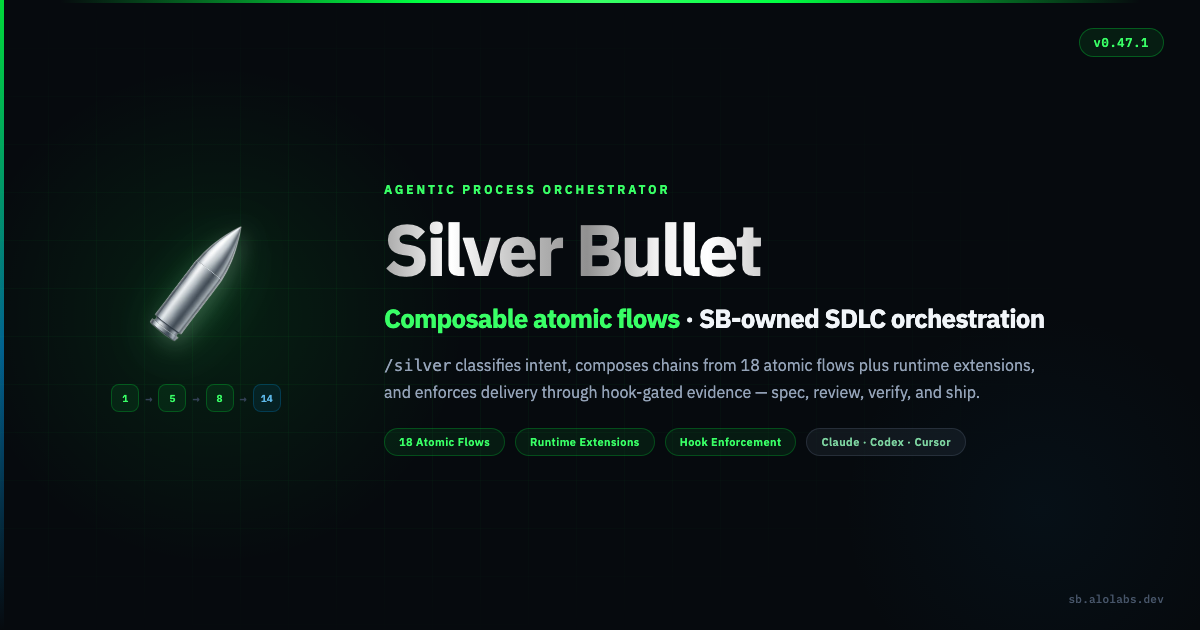
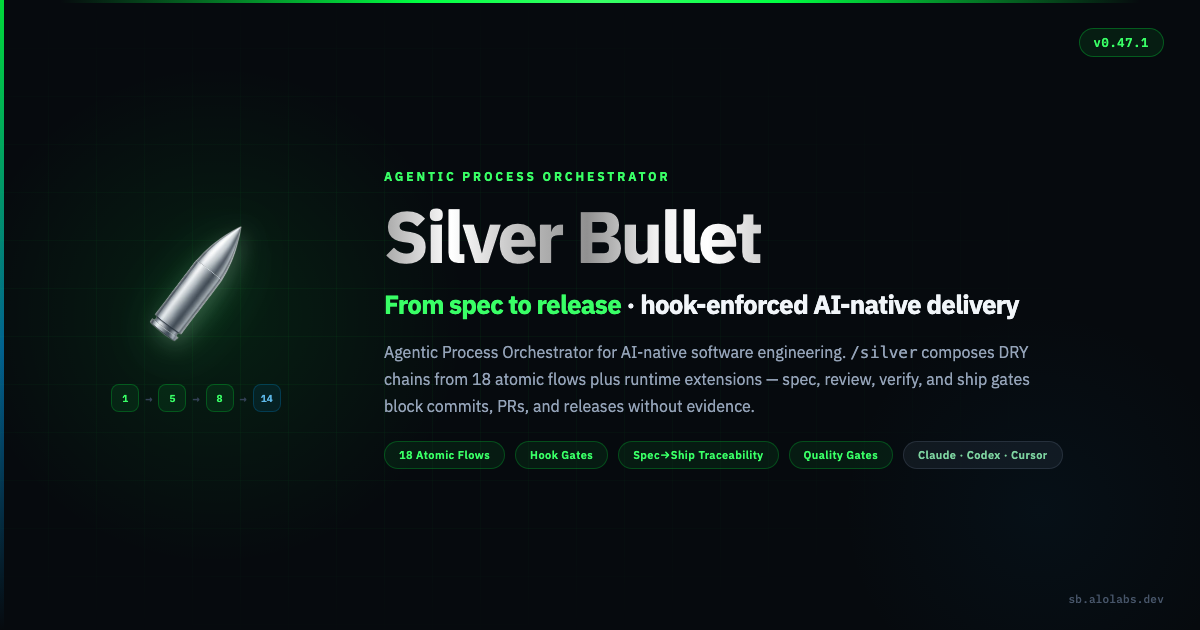
docs(site): revise OG value proposition and publish

Changed region(s): [[0.3083, 0.2714, 0.8633, 0.6635], [0.3083, 0.6937, 0.8633, 0.754]]

diff --git a/site/index.html b/site/index.html
@@ -8,17 +8,17 @@
 <link rel="icon" type="image/png" href="favicon.png">
 <link rel="shortcut icon" href="favicon.ico">
 <title>Silver Bullet — Agentic Process Orchestrator for AI-native Software Engineering &amp; DevOps</title>
-<meta name="description" content="Silver Bullet is an Agentic Process Orchestrator (APO) for AI-native software engineering and DevOps: composable atomic flows, SB-owned SDLC orchestration, spec/UAT/PR traceability, artifact review governance, and hook-enforced delivery gates.">
-<meta property="og:title" content="Silver Bullet — Composable Atomic Flows for SB-owned SDLC">
-<meta property="og:description" content="18 atomic flows + runtime extensions. /silver composes hook-enforced chains from spec to release — traceability, review, verify, and ship gates for Claude Code, Codex, and Cursor.">
+<meta name="description" content="Silver Bullet is an Agentic Process Orchestrator (APO) for AI-native software engineering and DevOps: composable atomic flows, spec-to-release traceability, artifact review governance, quality gates, and hook-enforced delivery gates on Claude Code, Codex, and Cursor.">
+<meta property="og:title" content="Silver Bullet — Agentic Process Orchestrator for AI-native SDLC">
+<meta property="og:description" content="From spec to release with hook-enforced gates. /silver composes DRY chains from 18 atomic flows plus runtime extensions — traceability, review, verify, and ship evidence blocks commits, PRs, and releases.">
 <meta property="og:type" content="website">
 <meta property="og:url" content="https://sb.alolabs.dev">
 <meta property="og:image" content="https://sb.alolabs.dev/og-image.png">
 <meta property="og:image:width" content="1200">
 <meta property="og:image:height" content="630">
 <meta name="twitter:card" content="summary_large_image">
-<meta name="twitter:title" content="Silver Bullet — Composable Atomic Flows for SB-owned SDLC">
-<meta name="twitter:description" content="18 atomic flows + runtime extensions. /silver composes hook-enforced chains from spec to release for Claude Code, Codex, and Cursor.">
+<meta name="twitter:title" content="Silver Bullet — Agentic Process Orchestrator for AI-native SDLC">
+<meta name="twitter:description" content="From spec to release with hook-enforced gates. 18 atomic flows + runtime extensions on Claude Code, Codex, and Cursor.">
 <meta name="twitter:image" content="https://sb.alolabs.dev/og-image.png">
 <link rel="preconnect" href="https://fonts.googleapis.com">
 <link rel="preconnect" href="https://fonts.gstatic.com" crossorigin>

diff --git a/site/og-card.html b/site/og-card.html
@@ -187,12 +187,13 @@
     <div class="text-col">
       <div class="label">Agentic Process Orchestrator</div>
       <h1><span class="silver-bullet">Silver Bullet</span></h1>
-      <div class="sub-heading"><em>Composable atomic flows</em> · SB-owned SDLC orchestration</div>
-      <p class="desc"><code>/silver</code> classifies intent, composes chains from 18 atomic flows plus runtime extensions, and enforces delivery through hook-gated evidence — spec, review, verify, and ship.</p>
+      <div class="sub-heading"><em>From spec to release</em> · hook-enforced AI-native delivery</div>
+      <p class="desc">Agentic Process Orchestrator for AI-native software engineering. <code>/silver</code> composes DRY chains from 18 atomic flows plus runtime extensions — spec, review, verify, and ship gates block commits, PRs, and releases without evidence.</p>
       <div class="pills">
         <span class="pill">18 Atomic Flows</span>
-        <span class="pill">Runtime Extensions</span>
-        <span class="pill">Hook Enforcement</span>
+        <span class="pill">Hook Gates</span>
+        <span class="pill">Spec→Ship Traceability</span>
+        <span class="pill">Quality Gates</span>
         <span class="pill muted">Claude · Codex · Cursor</span>
       </div>
     </div>

diff --git a/site/help/concepts/index.html b/site/help/concepts/index.html
@@ -6,9 +6,9 @@
 <link rel="icon" type="image/png" href="../../favicon.png">
 <link rel="shortcut icon" href="../../favicon.ico">
 <title>Core Concepts — Silver Bullet Help</title>
-<meta name="description" content="Understand Silver Bullet's core concepts: composable atomic flows, skills, hooks, SB-owned lifecycle workflows, quality gates, and enforcement layers.">
+<meta name="description" content="Understand Silver Bullet's core concepts: composable atomic flows, skills, hooks, lifecycle workflows, quality gates, and enforcement layers.">
 <meta property="og:title" content="Core Concepts — Silver Bullet Help">
-<meta property="og:description" content="Composable atomic flows, hook enforcement, SB-owned lifecycle skills, and quality gates — core Silver Bullet concepts for v0.47.1.">
+<meta property="og:description" content="Composable atomic flows, hook enforcement, lifecycle skills, quality gates, and spec-to-release traceability — core Silver Bullet concepts for v0.47.1.">
 <meta property="og:type" content="website">
 <meta property="og:url" content="https://sb.alolabs.dev/help/concepts/">
 <meta property="og:image" content="https://sb.alolabs.dev/og-image.png">

diff --git a/site/help/reference/index.html b/site/help/reference/index.html
@@ -6,9 +6,9 @@
 <link rel="icon" type="image/png" href="../../favicon.png">
 <link rel="shortcut icon" href="../../favicon.ico">
 <title>Command Reference — Silver Bullet Help</title>
-<meta name="description" content="Silver Bullet command reference: SB-owned lifecycle commands, .silver-bullet.json config options, file structure, and session log format.">
+<meta name="description" content="Silver Bullet command reference: lifecycle commands, composable atomic flows, .silver-bullet.json config options, file structure, and session log format.">
 <meta property="og:title" content="Command Reference — Silver Bullet Help">
-<meta property="og:description" content="SB-owned lifecycle commands, composable atomic flows reference, .silver-bullet.json config, and session log format for v0.47.1.">
+<meta property="og:description" content="Lifecycle commands, composable atomic flows reference, .silver-bullet.json config, and session log format for v0.47.1.">
 <meta property="og:type" content="website">
 <meta property="og:url" content="https://sb.alolabs.dev/help/reference/">
 <meta property="og:image" content="https://sb.alolabs.dev/og-image.png">

diff --git a/site/help/index.html b/site/help/index.html
@@ -8,7 +8,7 @@
 <title>Silver Bullet Help Center</title>
 <meta name="description" content="Silver Bullet v0.47.1 Help Center — composable atomic flows, runtime queue enforcement, 18-flow catalog, and /silver orchestration for Claude Code, Codex, and Cursor.">
 <meta property="og:title" content="Silver Bullet Help Center — Composable Atomic Flows">
-<meta property="og:description" content="Docs for Silver Bullet v0.47.1: 18 atomic flows, runtime extensions, composer chains, hook enforcement, and SB-owned SDLC orchestration.">
+<meta property="og:description" content="Docs for Silver Bullet v0.47.1: 18 atomic flows, runtime extensions, composer chains, hook-enforced delivery gates, and spec-to-release traceability.">
 <meta property="og:type" content="website">
 <meta property="og:url" content="https://sb.alolabs.dev/help/">
 <meta property="og:image" content="https://sb.alolabs.dev/og-image.png">
